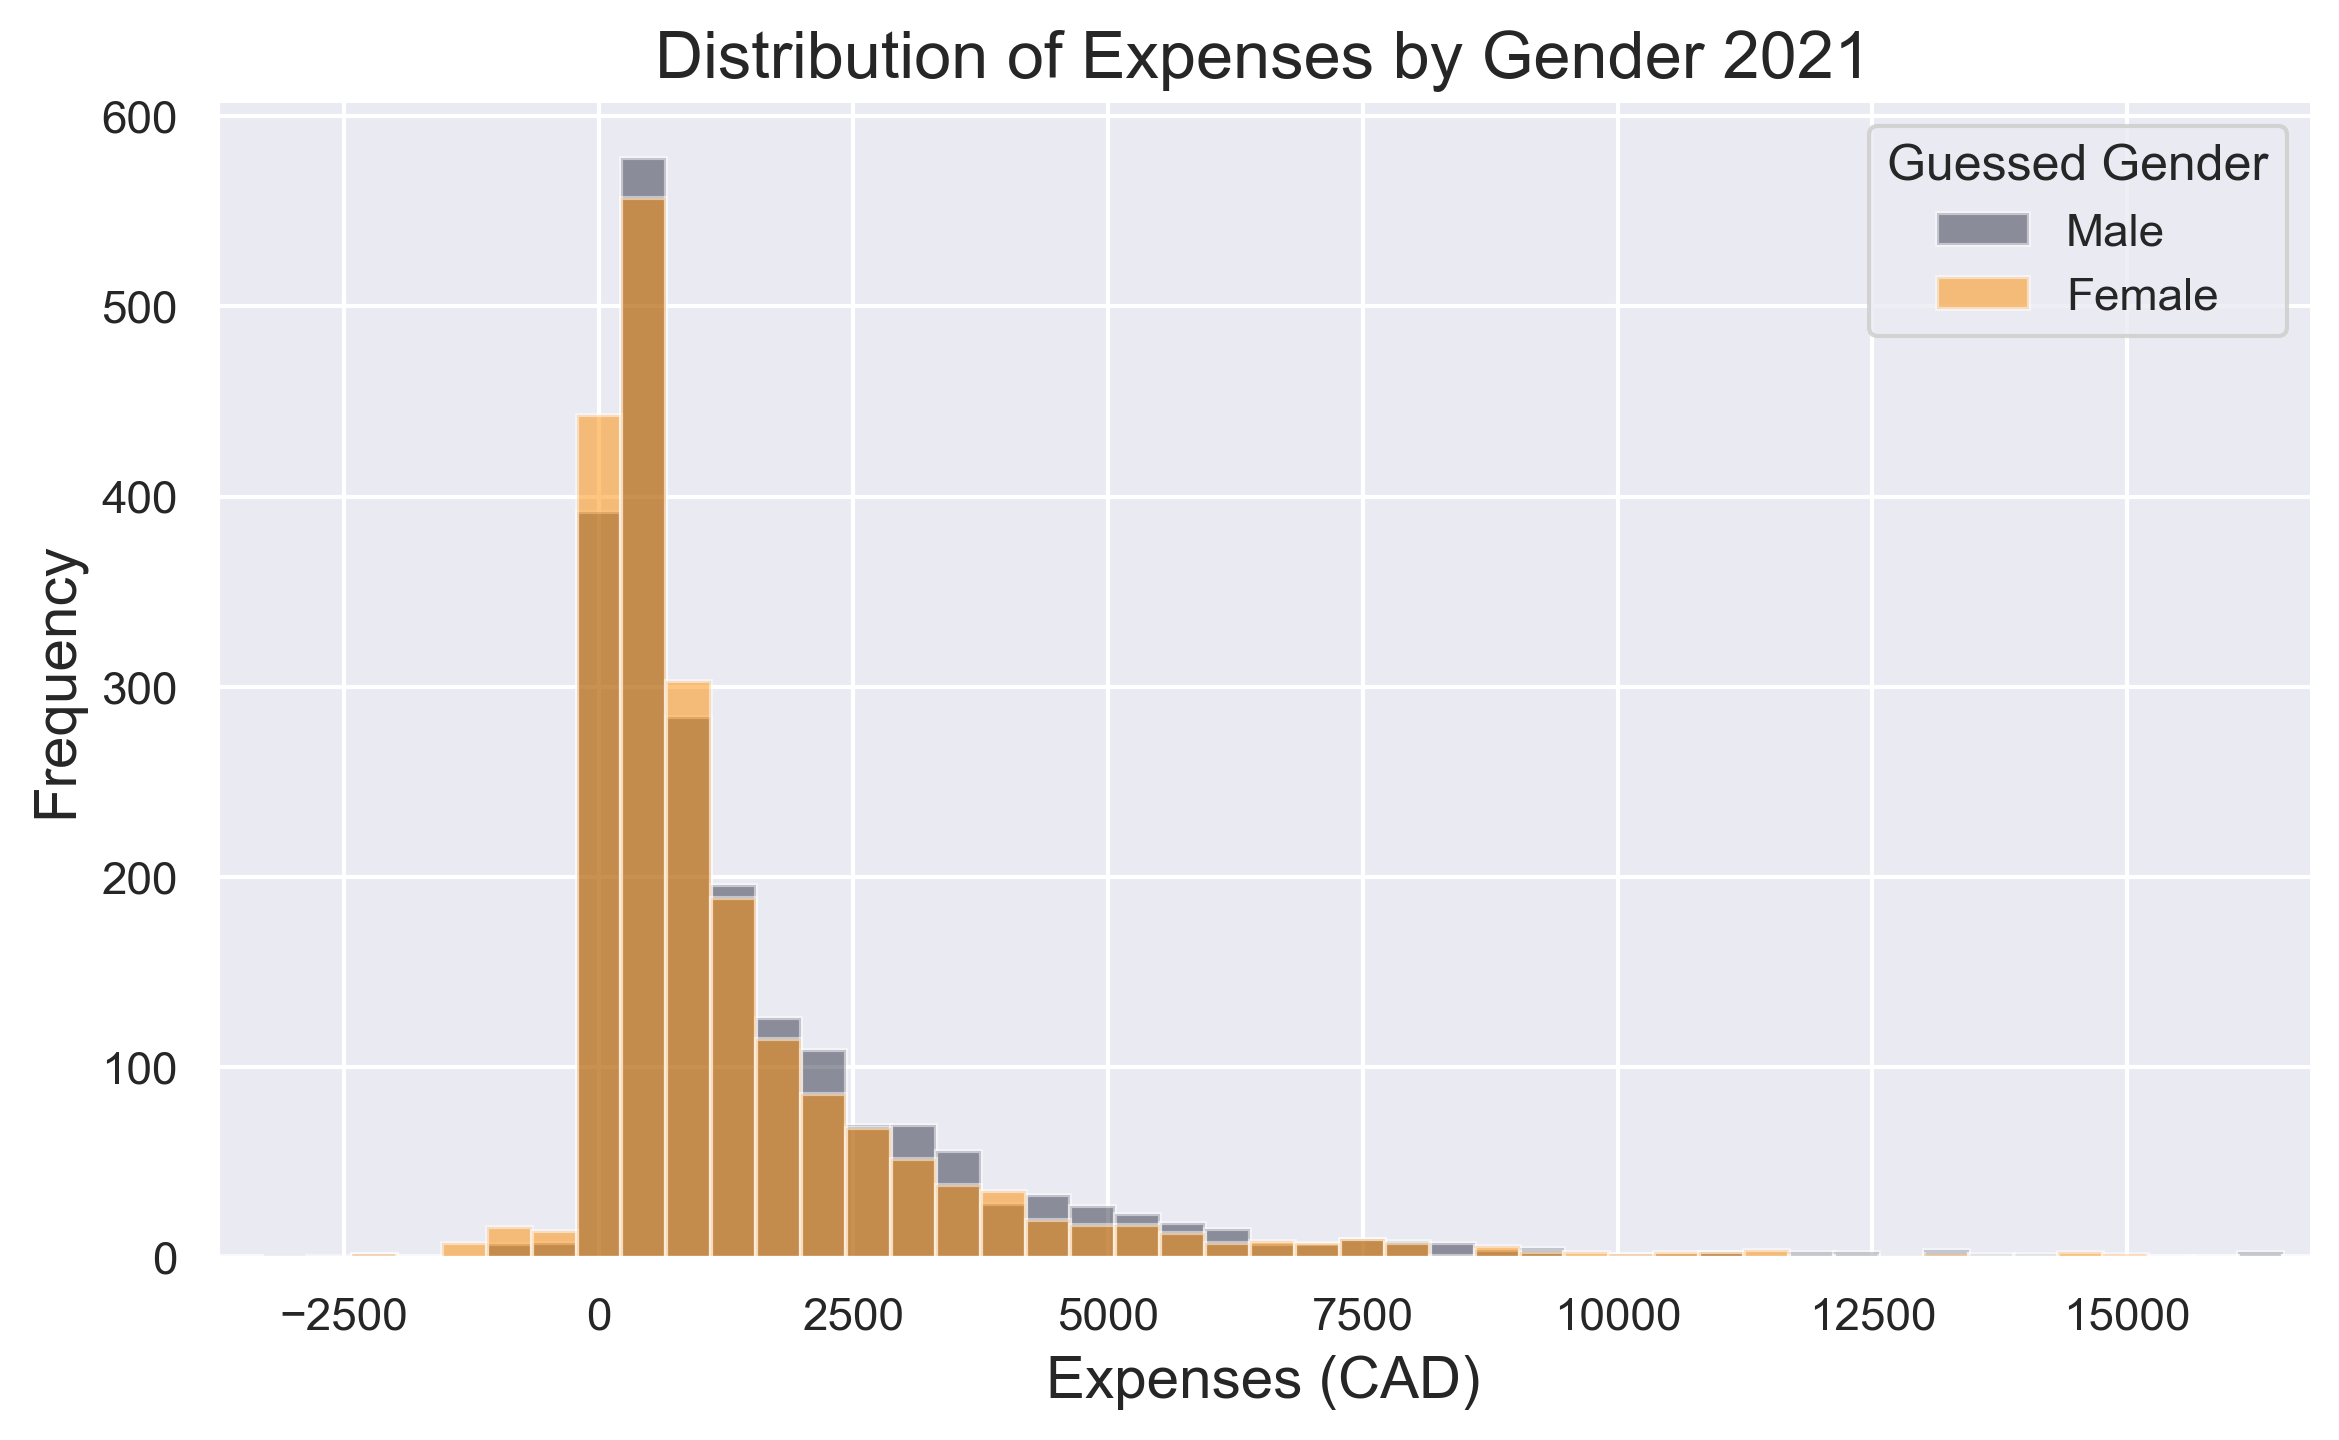
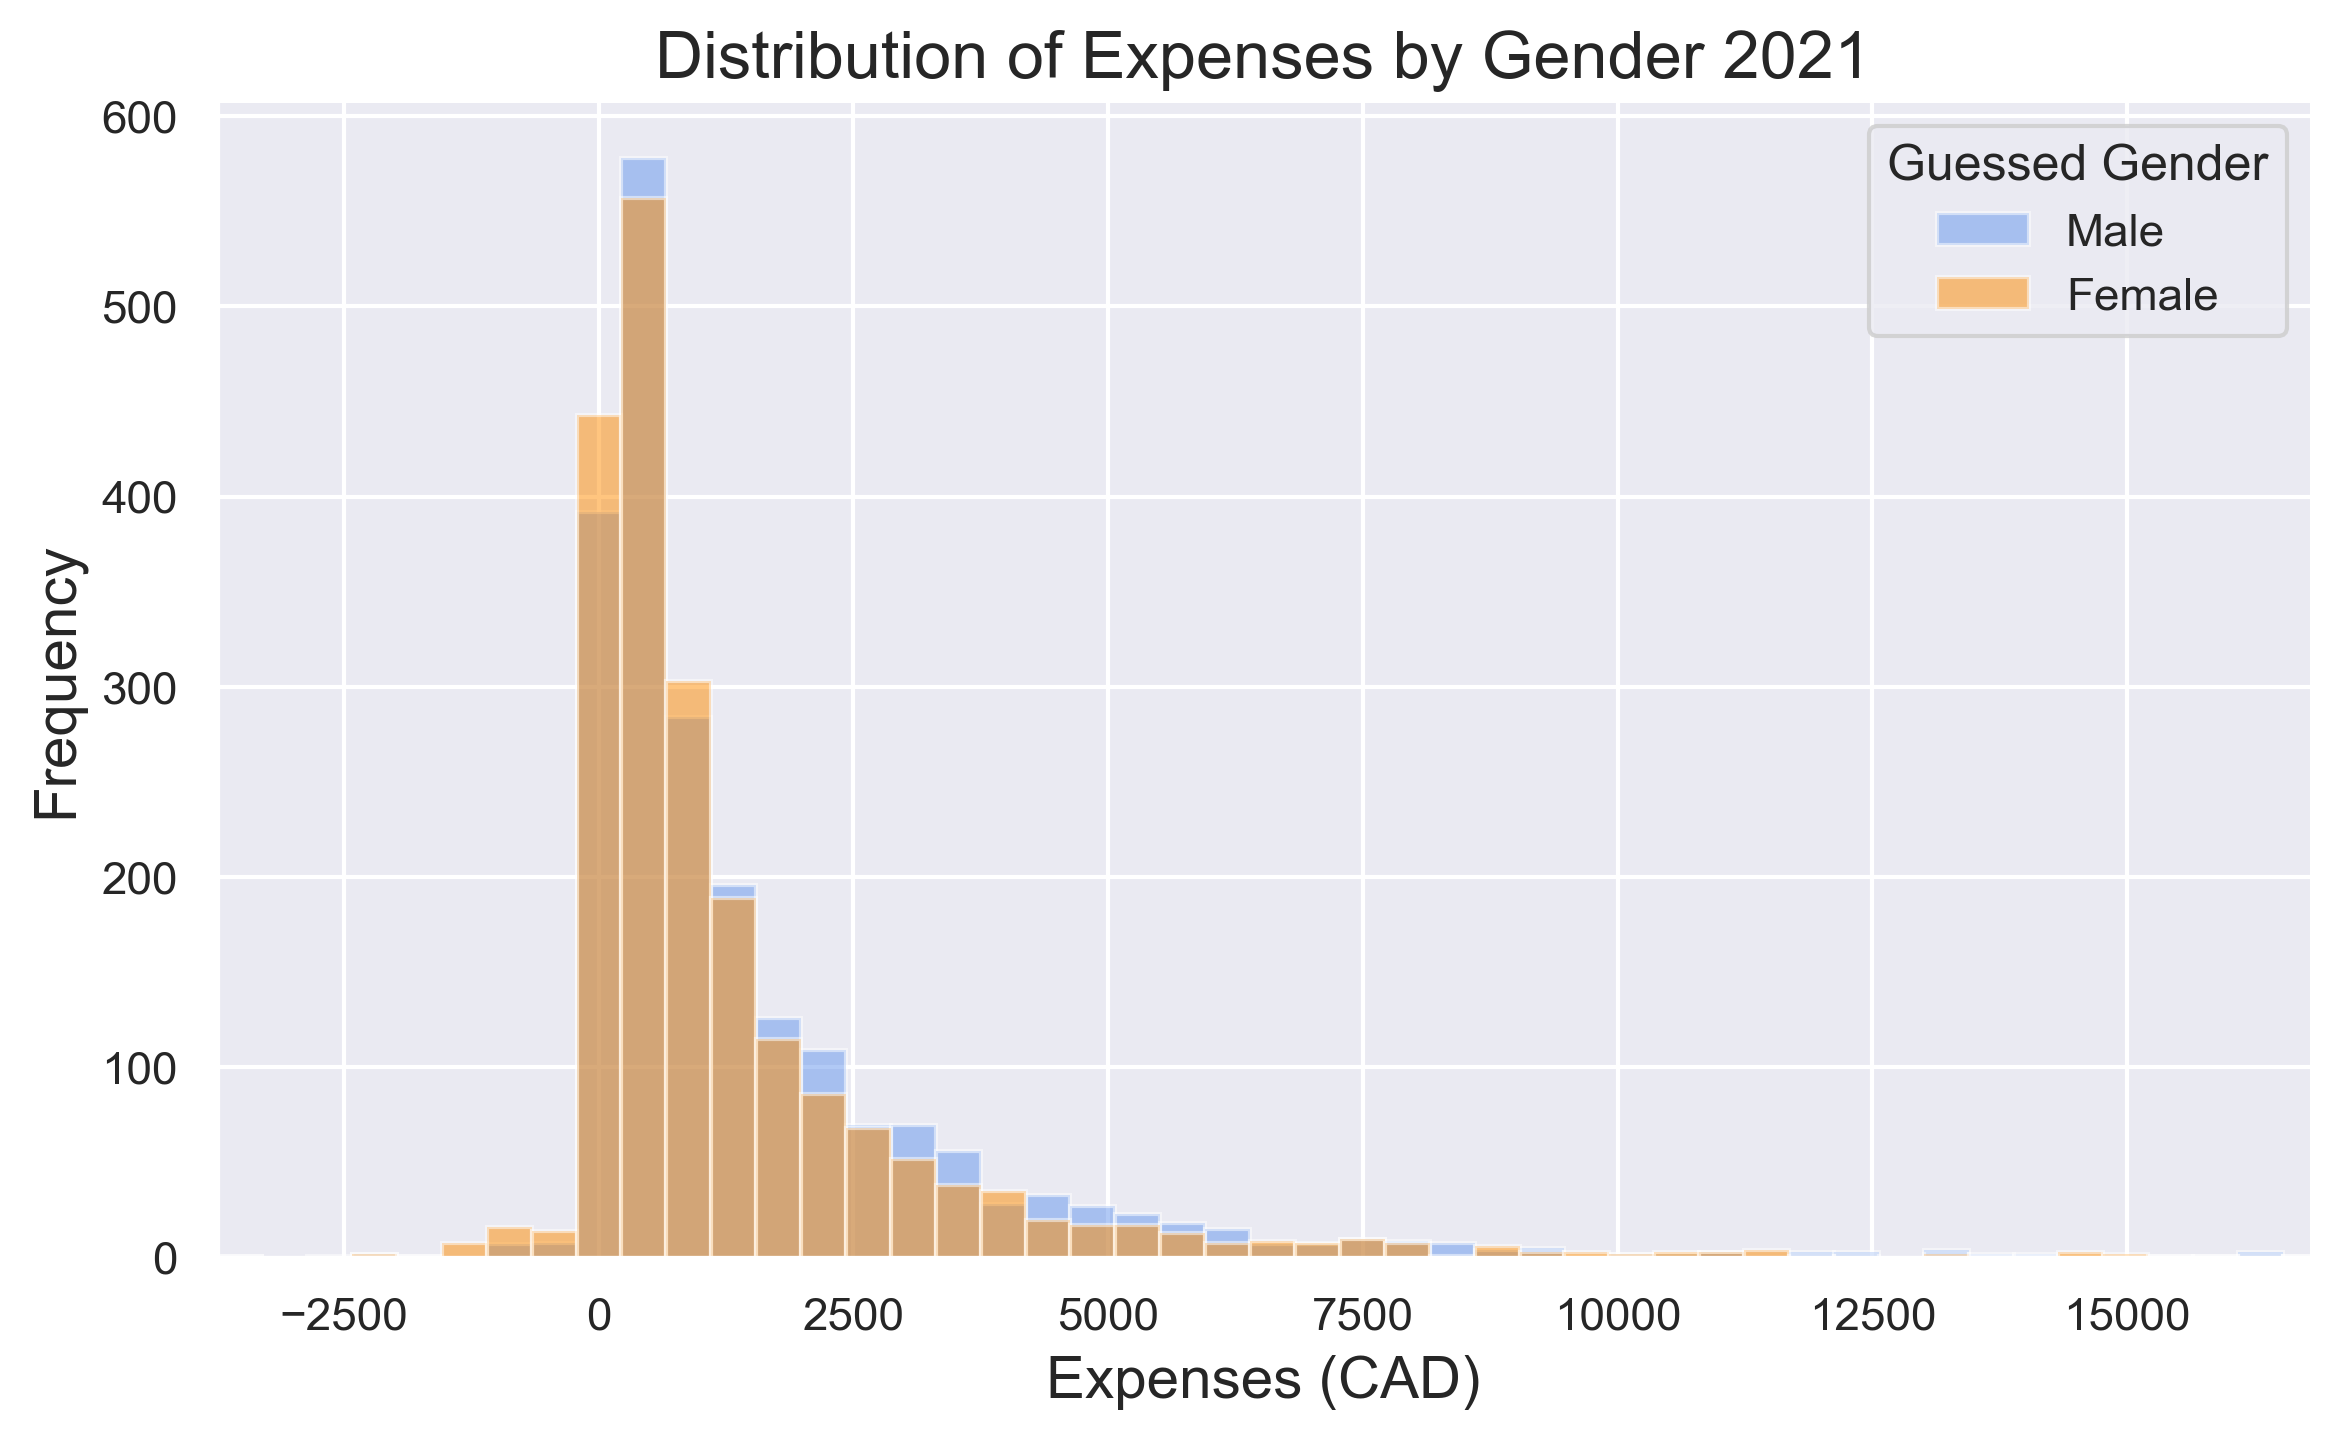
tweak plot names and colours

Changed region(s): [[0.2185, 0.0938, 0.6554, 0.875], [0.8115, 0.125, 0.8739, 0.1875]]

diff --git a/scripts/exploratory_analysis.py b/scripts/exploratory_analysis.py
@@ -71,6 +71,8 @@ def create_top_ten_bar_plot(data, numeric_column_name, categorical_column_name, 
 
     plt.tight_layout()
     plt.savefig(f'plots/bar_plots/top_ten_{file_name}.png', dpi=300, bbox_inches='tight')
+    plt.close()
+
 
 
 def create_top_ten_bar_plots_for_all_years():
@@ -88,7 +90,7 @@ def create_histogram_plot_for_one_year(data, min_value, max_value, numeric_col, 
 
     # Create histogram plot
     plt.figure(figsize=(9, 5))
-    plt.hist(male_expenses, bins, alpha=0.5, label='Male', color="#2B2F42")
+    plt.hist(male_expenses, bins, alpha=0.5, label='Male', color="#6495ED")
     plt.hist(female_expenses, bins, alpha=0.5, label='Female', color="#FF8C00")
     plt.legend(loc='upper right', title = "Guessed Gender")
 
@@ -104,6 +106,7 @@ def create_histogram_plot_for_one_year(data, min_value, max_value, numeric_col, 
 
     plt.grid(True)
     plt.savefig(f'plots/histogram_plots/histogram_of_{file_name}.png', dpi=300, bbox_inches='tight')
+    plt.close()
 
 def create_summary_table(data, numeric_col1, numeric_col2):
     ## create summary data table and store min/max values
@@ -136,6 +139,8 @@ def create_box_plots(data, numeric_col, categorical_col, xlab, ylab, title, file
     plt.ylabel(ylab, fontsize=14)
     plt.title(title , fontsize=16)
     plt.savefig(f'plots/box_plots/boxplot_of_{file_name}.png', dpi=300, bbox_inches='tight')
+    plt.close()
+
 
 
 def main():
